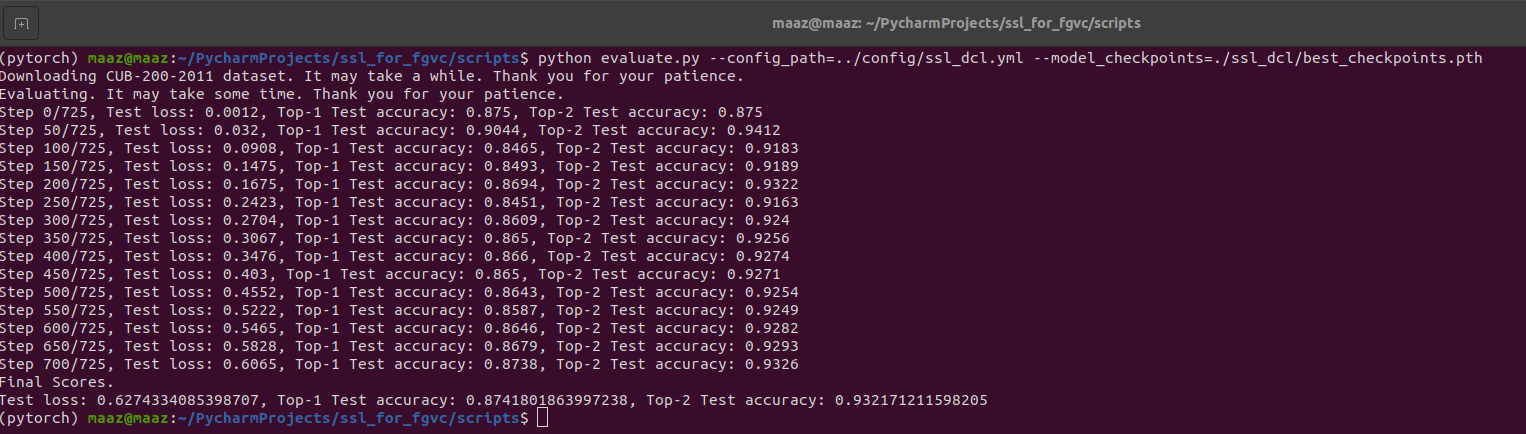
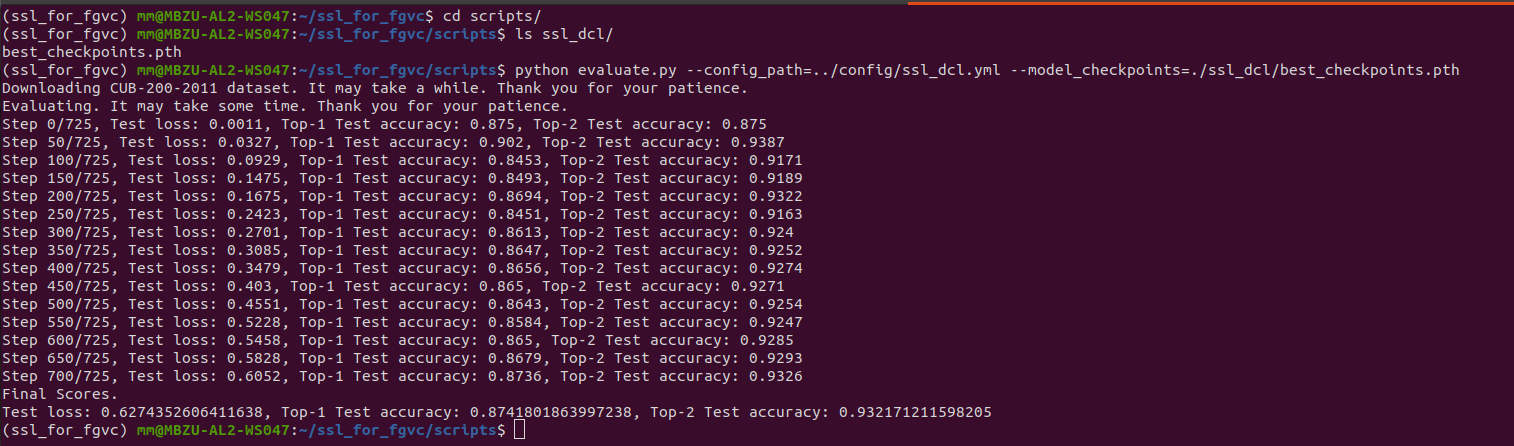
Updates the sample output screenshots.

Changed region(s): [[0.0, 0.0, 1.0, 0.9885]]

diff --git a/README.md b/README.md
@@ -28,7 +28,7 @@ We also provide sample configuration files at `./config/*` for each implemented 
 It is recommended to create a new conda environment for this project. The installation steps are as follows:
 1. Create new conda environment and activate it.
 ```bash
-$ conda create env --name=ssl_for_fgvc python=3.8
+$ conda create --name=ssl_for_fgvc python=3.8
 $ conda activate ssl_for_fgvc
 ```
 2. Install requirements as,
@@ -84,7 +84,7 @@ $ python main.py --config_path=./config/ssl_dcl.yml
 ```
 The expected outputs after running the command are given below.
 
-![Training Outputs for DCL Model](images/evaluation_dcl_sample_output.png)
+![Training Outputs for DCL Model](images/training_dcl.png)
 
 ## CAM Visualization
 The repository also provides the functionality to generate class activation maps (CAMs) 
